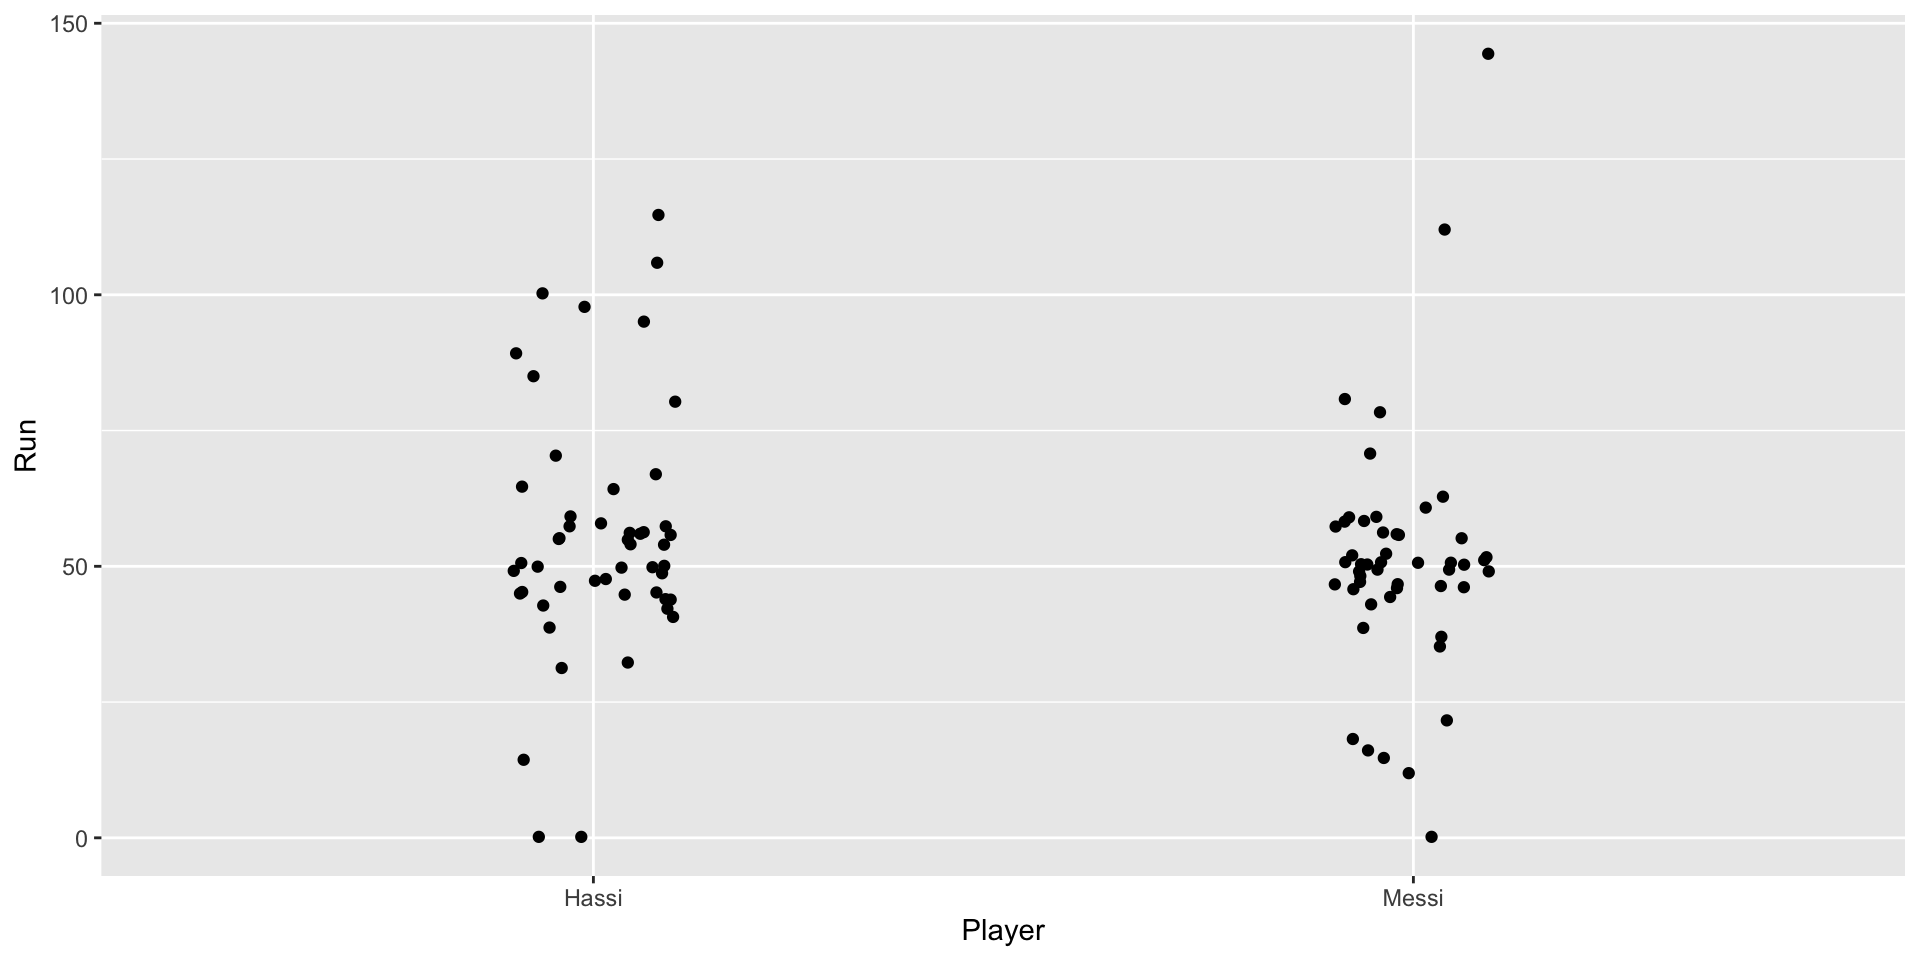
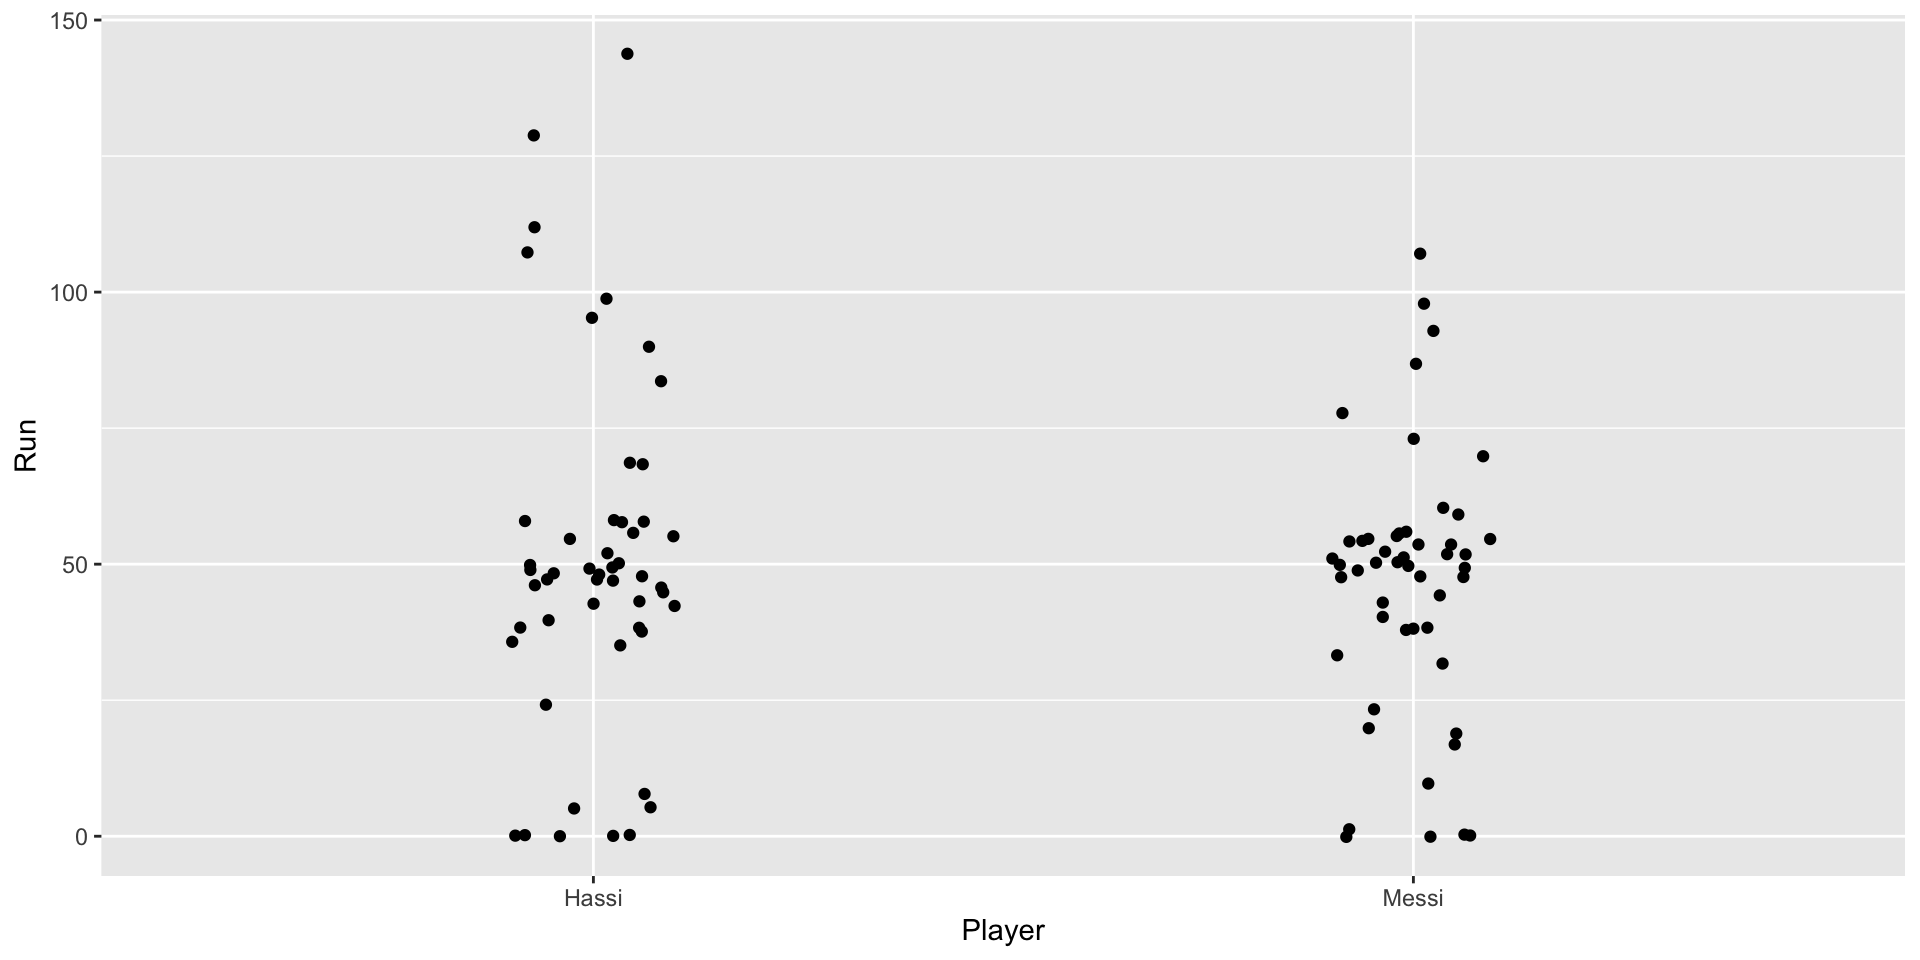
Built site for gh-pages

diff --git a/slides/01IntroToR.html b/slides/01IntroToR.html
@@ -578,21 +578,21 @@ Subrata Paul
 <div class="sourceCode cell-code" id="cb37"><pre class="sourceCode numberSource r number-lines code-with-copy"><code class="sourceCode r"><span id="cb37-1"><a href="#cb37-1"></a>Zila <span class="ot">=</span> <span class="fu">sample</span>(<span class="fu">c</span>(<span class="st">'Munshiganj'</span>, <span class="st">'Dhaka'</span>,<span class="st">'Gazipur'</span>), <span class="at">size =</span> <span class="dv">10</span>, <span class="at">replace =</span> T)</span>
 <span id="cb37-2"><a href="#cb37-2"></a>Zila</span></code><button title="Copy to Clipboard" class="code-copy-button"><i class="bi"></i></button></pre></div>
 <div class="cell-output cell-output-stdout">
-<pre><code> [1] "Gazipur"    "Dhaka"      "Dhaka"      "Dhaka"      "Gazipur"   
- [6] "Munshiganj" "Gazipur"    "Gazipur"    "Dhaka"      "Munshiganj"</code></pre>
+<pre><code> [1] "Dhaka"      "Munshiganj" "Gazipur"    "Gazipur"    "Munshiganj"
+ [6] "Munshiganj" "Dhaka"      "Dhaka"      "Dhaka"      "Dhaka"     </code></pre>
 </div>
 <div class="sourceCode cell-code" id="cb39"><pre class="sourceCode numberSource r number-lines code-with-copy"><code class="sourceCode r"><span id="cb39-1"><a href="#cb39-1"></a>Income <span class="ot">=</span> <span class="fu">sample</span>(<span class="dv">40000</span><span class="sc">:</span><span class="dv">100000</span>, <span class="at">size =</span> <span class="dv">10</span>, <span class="at">replace =</span> T)</span>
 <span id="cb39-2"><a href="#cb39-2"></a>Income</span></code><button title="Copy to Clipboard" class="code-copy-button"><i class="bi"></i></button></pre></div>
 <div class="cell-output cell-output-stdout">
-<pre><code> [1] 59535 65882 91480 52619 78655 84645 66985 60526 91638 85794</code></pre>
+<pre><code> [1] 92530 66139 51488 54878 76072 91607 77666 79632 91087 80389</code></pre>
 </div>
 <div class="sourceCode cell-code" id="cb41"><pre class="sourceCode numberSource r number-lines code-with-copy"><code class="sourceCode r"><span id="cb41-1"><a href="#cb41-1"></a>Zila <span class="sc">==</span> <span class="st">'Munshiganj'</span></span></code><button title="Copy to Clipboard" class="code-copy-button"><i class="bi"></i></button></pre></div>
 <div class="cell-output cell-output-stdout">
-<pre><code> [1] FALSE FALSE FALSE FALSE FALSE  TRUE FALSE FALSE FALSE  TRUE</code></pre>
+<pre><code> [1] FALSE  TRUE FALSE FALSE  TRUE  TRUE FALSE FALSE FALSE FALSE</code></pre>
 </div>
 <div class="sourceCode cell-code" id="cb43"><pre class="sourceCode numberSource r number-lines code-with-copy"><code class="sourceCode r"><span id="cb43-1"><a href="#cb43-1"></a>Income[Zila <span class="sc">==</span> <span class="st">'Munshiganj'</span>]</span></code><button title="Copy to Clipboard" class="code-copy-button"><i class="bi"></i></button></pre></div>
 <div class="cell-output cell-output-stdout">
-<pre><code>[1] 84645 85794</code></pre>
+<pre><code>[1] 66139 76072 91607</code></pre>
 </div>
 </div>
 </section>
@@ -844,12 +844,12 @@ Subrata Paul
 <span id="cb81-2"><a href="#cb81-2"></a><span class="fu">head</span>(mydata)</span></code><button title="Copy to Clipboard" class="code-copy-button"><i class="bi"></i></button></pre></div>
 <div class="cell-output cell-output-stdout">
 <pre><code>   Person       Zila Income Gender Family.Size
-1 Person1 Munshiganj  20357   Male           8
-2 Person2    Gazipur  16669 Female           3
-3 Person3 Munshiganj  11668   Male           4
-4 Person4 Munshiganj  26565   Male           9
-5 Person5 Munshiganj  23465 Female           1
-6 Person6    Gazipur  35057 Female           2</code></pre>
+1 Person1 Munshiganj  20357   Male           4
+2 Person2    Gazipur  16669 Female           7
+3 Person3 Munshiganj  11668   Male           6
+4 Person4 Munshiganj  26565   Male           7
+5 Person5 Munshiganj  23465 Female           7
+6 Person6    Gazipur  35057 Female           4</code></pre>
 </div>
 </div>
 </section>
@@ -965,7 +965,7 @@ Subrata Paul
 </div>
 
 <img data-src="01IntroToR_files/figure-revealjs/unnamed-chunk-35-1.png" width="960" class="r-stretch"><div class="footer footer-default">
-
+<p><a href="https://spaul-genetics.github.io/RStat4Arts">🔗 spaul-genetics.github.io/RStat4Arts</a></p>
 </div>
 </section></section>
     </div>

diff --git a/schedule.html b/schedule.html
@@ -212,7 +212,7 @@ Sub-topic
 </tr>
 </thead>
 <tbody class="list">
-<tr data-index="0" data-listing-file-modified-sort="1694839507122" data-listing-reading-time-sort="3" data-listing-title-sort="Introduction to R" data-listing-filename-sort="01IntroToR.qmd">
+<tr data-index="0" data-listing-file-modified-sort="1694840354710" data-listing-reading-time-sort="3" data-listing-title-sort="Introduction to R" data-listing-filename-sort="01IntroToR.qmd">
 <td>
 <a href="./slides/01IntroToR.html" class="title listing-title">Introduction to R</a>
 </td>
